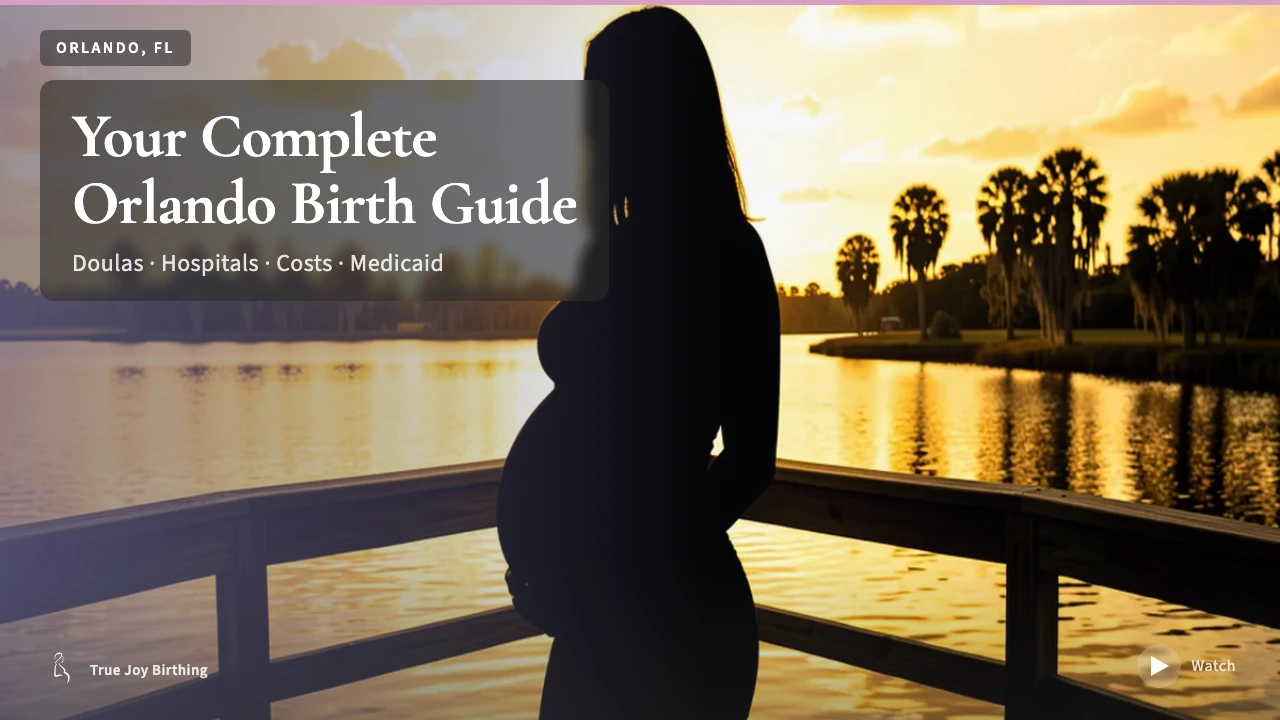
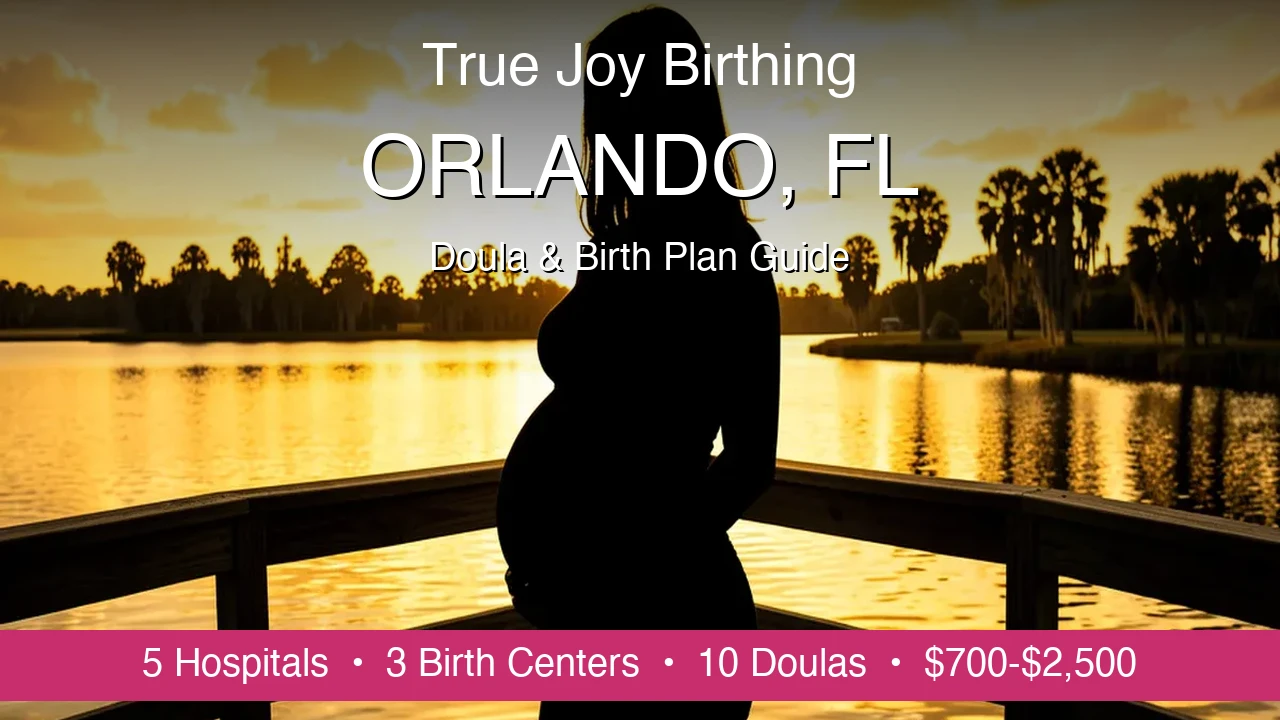
orlando-fl: add birth center paragraphs, fix YouTube thumbnail template

diff --git a/src/data/cities.ts b/src/data/cities.ts
@@ -5348,9 +5348,9 @@ midwifeInfo: {
       { name: "HCA Florida Osceola Hospital", thumbnail: "/images/orlando-fl-osceola-regional.webp", address: "700 W Oak St, Kissimmee, FL 34741", nicuLevel: "II", doulaPolicy: "Doulas welcome in L&D", medicaid: "Yes", url: "https://www.hcafloridahealthcare.com/locations/osceola-hospital", paragraph: "HCA Florida Osceola Hospital in Kissimmee serves the south Orlando metro area with a Women's and Children's Services department recognized as a Cribs for Kids National Certified Safe Sleep Hospital. The hospital features a Level II NICU with 24/7 neonatology coverage, dedicated cesarean surgical suites, and spacious labor and delivery suites with sleeper sofas and bassinets. Obstetricians from the University of Central Florida College of Medicine faculty provide care, along with perinatologists for high-risk births. The hospital offers antepartum high-risk care, in-person tours of the labor and delivery unit, and comprehensive lactation support. <a href=\"/birth-plan-template/\">Download the free birth plan template</a> to get ready." },
     ],
     birthCenterDetails: [
-      { name: "Heart 2 Heart Birth Center", thumbnail: "/images/orlando-fl-heart-2-heart-birth-center.webp", address: "Sanford, FL (near Orlando)", url: "https://h2hbirthcenter.com/", services: ["Water Birth", "Natural Birth", "Midwifery Care", "Prenatal Care", "Postpartum Care"] },
-      { name: "The Birth Place", thumbnail: "/images/orlando-fl-the-birth-place.webp", address: "213 S Dillard St, Ste 340, Winter Garden, FL 34787", url: "https://thebirthplace.org/", services: ["Midwifery Care", "Prenatal Care", "Birth Center Birth", "Hospital Delivery Options", "Breastfeeding Support", "Postpartum Care"] },
-      { name: "Tree of Life Birth & Gynecology", thumbnail: "/images/orlando-fl-tree-of-life-birth-center.webp", address: "Central Florida (20 minutes from downtown Orlando)", url: "https://www.tolbirth.com/", services: ["Birth Center Birth", "Water Birth", "Home Birth", "Midwifery Care", "Holistic Care", "Medicaid Accepted"] },
+      { name: "Heart 2 Heart Birth Center", thumbnail: "/images/orlando-fl-heart-2-heart-birth-center.webp", paragraph: "Heart 2 Heart Birth Center in Sanford, about 25 minutes north of downtown Orlando, is a freestanding birth center offering water birth, natural birth, and midwife-led care. Their certified professional midwives provide comprehensive prenatal, birth, and postpartum services in a home-like setting. <a href=\"/birth-plan-template/\">Use our free birth plan template</a> to prepare for your delivery here.", address: "Sanford, FL (near Orlando)", url: "https://h2hbirthcenter.com/", services: ["Water Birth", "Natural Birth", "Midwifery Care", "Prenatal Care", "Postpartum Care"] },
+      { name: "The Birth Place", thumbnail: "/images/orlando-fl-the-birth-place.webp", paragraph: "The Birth Place on South Dillard Street in Winter Garden is Orange County\u2019s premier freestanding birth center, offering midwife-led births in a comfortable, home-like setting. They provide prenatal care, birth center births, hospital delivery options, breastfeeding support, and postpartum care. <a href=\"/birth-plan-template/\">Grab the free birth plan template</a> to prepare for your delivery here.", address: "213 S Dillard St, Ste 340, Winter Garden, FL 34787", url: "https://thebirthplace.org/", services: ["Midwifery Care", "Prenatal Care", "Birth Center Birth", "Hospital Delivery Options", "Breastfeeding Support", "Postpartum Care"] },
+      { name: "Tree of Life Birth & Gynecology", thumbnail: "/images/orlando-fl-tree-of-life-birth-center.webp", paragraph: "Tree of Life Birth & Gynecology is a holistic birth center about 20 minutes from downtown Orlando, offering birth center births, water births, home birth services, and comprehensive midwifery care. They accept Medicaid and focus on personalized, holistic care for every family. <a href=\"/birth-plan-template/\">Download the free birth plan template</a> to prepare for your delivery here.", address: "Central Florida (20 minutes from downtown Orlando)", url: "https://www.tolbirth.com/", services: ["Birth Center Birth", "Water Birth", "Home Birth", "Midwifery Care", "Holistic Care", "Medicaid Accepted"] },
     ],
     medicaidNote: "No — As of 2026, Florida Medicaid does not cover doula services. Florida has not enacted legislation to add Medicaid doula coverage. Orlando-area families on Medicaid should check with their managed care plan (Staywell, Sunshine Health, Simply Healthcare, UnitedHealthcare Community Plan) about any maternal wellness benefits. Contact Florida Medicaid at 1-877-254-1055 or visit flmedicaidmanagedcare.com for current plan information.",
     insuranceNote: "Orlando's employer market is one of the largest in Florida. Disney, Universal, AdventHealth, Lockheed Martin, and Darden all offer health plans that may include maternal wellness benefits. Check your specific plan for doula coverage, and whether HSA or FSA funds can help. Theme-park and hospitality employers sometimes have flexible benefits that cover doula services under wellness programs.",
